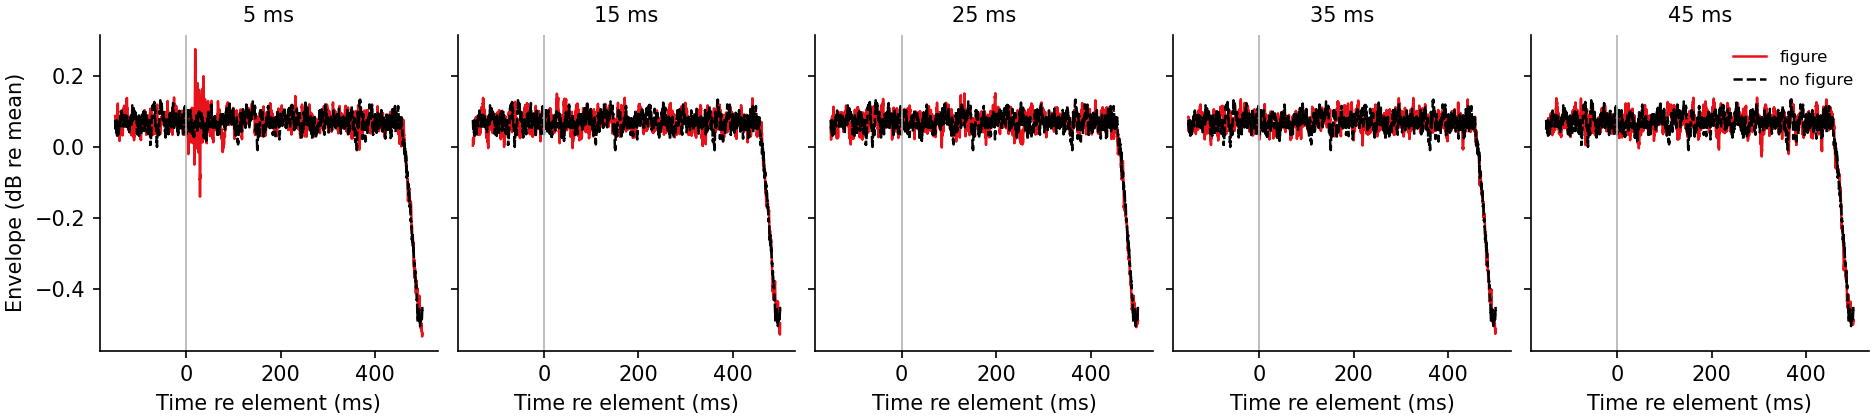
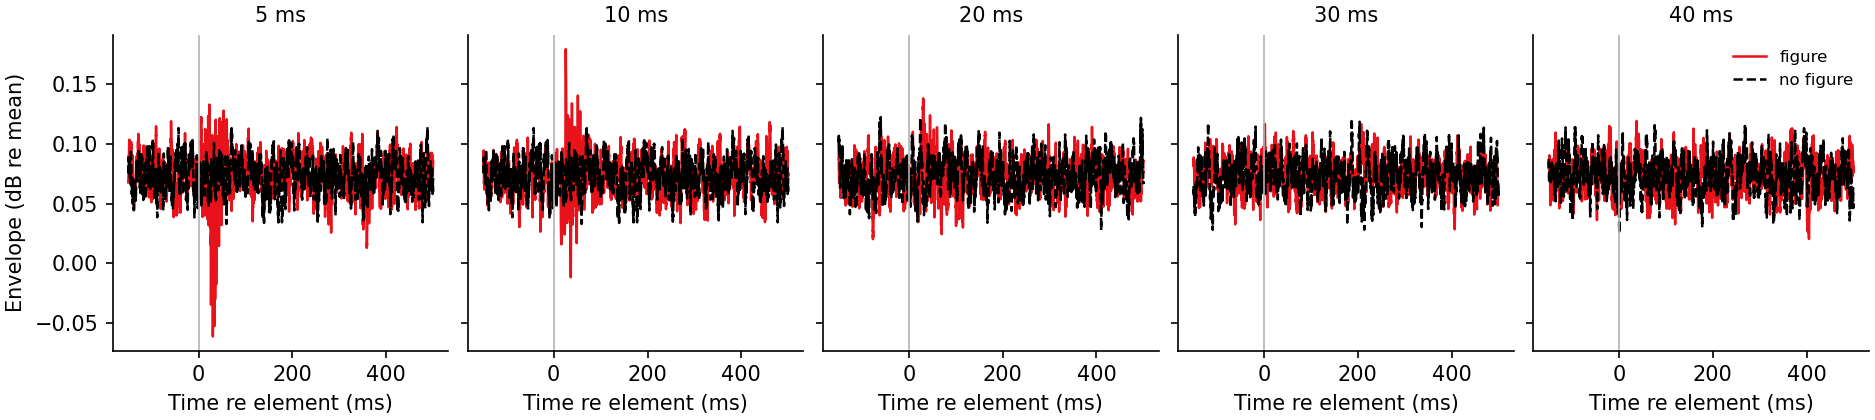
audios/sfg_task: bring the notebook and the README up to the current design
Both still described the version with 50 ms tones, a 117-channel pool at
1/24 octave, five tones sounding, a 0 ms chord, eleven elements at 5 Hz
that were allowed to overlap, and 140 trials over seven delays.  None of
that is true any more, and the notebook's 0 ms cells no longer build.

Notebook: the anchor follows min(steps_ms) rather than a hardcoded 0, the
sliders follow the design, the controls demo moves to a delay that is in
the sweep, and section 3 says what actually varies with the delay -- the
element grows from 70 to 280 ms and the tones stop overlapping -- instead
of the old paragraph about repetitions running into each other.  Executes
with 0 errors.

README: the numbers throughout, plus three things that were measured
since and are worth writing down.  Why 5 ms is the floor of the paradigm
(a 2.5 ms grid forces 16 tones sounding and the critical-band dealer is
then forced off its first choice 1301 times in 60 trials).  Why the
jitter is +-20 ms and not wider (it decorrelates the control's onsets
from the figure's, and the duty match at the 10 ms step goes 0.6, 2.9,
7.1, 11.1 points apart at +-10, 20, 30, 40).  And the element-duration
confound, with the control that settles it: hold the extent fixed and
trade `coherence` against the delay.

diff --git a/audios/sfg_task/config.py b/audios/sfg_task/config.py
@@ -101,22 +101,16 @@ class Design:
     # Long, because the figure has to be found by accumulating evidence over
     # elements rather than caught in one.
     #
-    # Elements repeat at `rate_hz` and ARE ALLOWED TO OVERLAP.  At 5 Hz the
-    # period is 200 ms and a 50 ms-per-step element is 350 ms long, so at
-    # the wide delays nearly two elements sound at once and the figure is a
-    # continuous ascending stream rather than a discrete object.  The number
-    # of coherent components sounding therefore varies with delay, which the
-    # non-overlapping version was built to avoid.  It is matched between the
-    # two intervals of a trial, so it cannot be a cue, but it does mean the
-    # conditions differ in more than asynchrony.  Chosen deliberately, to
-    # keep the figure at a speech rate.
+    # Elements repeat at `rate_hz` and do not run into one another: the mean
+    # gap is 326 ms and the widest element 280 ms, so they graze on 0.2 % of
+    # gaps and by at most 5 ms.  An earlier version let them overlap, and
+    # because the delays divided into the period that put tones from
+    # successive repetitions on top of each other -- accidental synchrony in
+    # exactly the conditions meant to have none, and the sweep stopped being
+    # monotonic.
     interval_s: float = 6.0
-    rate_hz: float = 3.0         # elements NEVER overlap: at 5 Hz a 300 ms
-                                 # element ran into the next one and tones
-                                 # from successive repetitions landed on top
-                                 # of each other, which put accidental
-                                 # synchrony back into exactly the delays
-                                 # meant to have none
+    rate_hz: float = 3.0         # the fastest rate a 280 ms element can keep
+                                 # without running into the next one
     jitter_ms: float = 20.0      # +- on each interval between elements, so
                                  # the rhythm is not isochronous and the
                                  # figure cannot be followed by predicting

diff --git a/audios/sfg_task/README.md b/audios/sfg_task/README.md
@@ -5,9 +5,10 @@
 sweep. No install, no account.
 
 A two-interval figure-ground detection experiment whose only variable is the onset
-asynchrony between successive tones of the figure. At 0 ms the seven tones are a
-coherent chord, the classic stochastic figure-ground stimulus. At 50 ms they are a
-350 ms staircase. Everything else is held identical, and measured to be identical.
+asynchrony between successive tones of the figure. At 5 ms the seven tones start
+inside 30 ms of each other and are effectively the coherent chord of the classic
+stochastic figure-ground stimulus. At 40 ms they are a 280 ms staircase with no overlap
+left at all. Everything else is held identical, and measured to be identical.
 
 The question: temporal coherence theory says common onset is what binds components into
 one object. How far can the onsets be pulled apart before the figure stops being one
@@ -15,14 +16,18 @@ thing?
 
 ## The stimulus
 
-A cloud of 50 ms tones with 10 ms raised-cosine ramps, drawn from 117 channels spanning
-250 to 7246 Hz on a 1/24 octave grid, all at the same level. Exactly five tones sound at
-every instant, by a start pattern that puts `bg_sounding` starts in every tone length. That works for any count, not only for multiples of it.
+A cloud of 40 ms tones with 10 ms raised-cosine ramps, drawn from 234 channels spanning
+250 to 7246 Hz on a 1/48 octave grid, all at the same level. Exactly eight tones sound at
+every instant, by a start pattern that puts `bg_sounding` starts in every tone length.
+That works for any count, not only for multiples of it.
 
-No two tones ever sound at once inside one critical band. A 1/24 octave pool puts four
-to eight channels inside every ERB, and without this rule two thirds of the tones
-acquire a beating partner, which at the bottom of the pool is a 5 Hz throb. A listener
-hears that as a repeated beep rather than as a cloud.
+The grid is finer than the published 1/24 octave because what the figure has to stand
+out from is the background's rate *per channel*, and a finer grid thins that without
+touching the figure: contrast 2.7x at 1/24 octave, 4.7x at 1/48.
+
+No two tones ever sound at once inside one critical band. Without this rule two thirds
+of the tones acquire a beating partner, which at the bottom of the pool is a slow throb.
+A listener hears that as a repeated beep rather than as a cloud.
 
 ### Why the levels are flat and not equal-loudness weighted
 
@@ -46,18 +51,35 @@ Flat, as in Teki 2013: long-term power now varies 1.4 dB across channels, the wo
 prominence is 1.0 dB, and the tones of an element are identical in level. The residual
 1.0 dB sits at the bottom edge of the pool, which has nothing below it to mask it.
 
-Onsets fall on a 5 ms grid. A finer grid costs nothing, since the cloud starts
-`bg_sounding / tone_ms` tones a second whatever the grid is, so the grid is set by the
-finest step to be tested and then held fixed for the whole experiment. If it moved with
-the step, so would the background, and every condition would face a different cloud.
+Onsets fall on a 5 ms grid, held fixed for the whole experiment. If it moved with the
+step, so would the background, and every condition would face a different cloud.
+
+**5 ms is the floor of the paradigm, and it is worth knowing why.** The figure
+substitutes background tones rather than adding to them, so a figure tone can only take
+a slot a background tone would have started in, which forces `bg_sounding = tone_ms /
+hop_ms`. Halving the grid to 2.5 ms therefore doubles the tones sounding at once to 16,
+and at 16 the critical-band rule runs out of pool: measured, the dealer is forced off
+its first choice 1301 times in 60 trials, against 0 at the present setting. So the
+finest asynchrony this design can present is one slot, and the psychometric function
+cannot be sampled below 5 ms.
 
 The figure is a discrete element: seven channels drawn at random inside a band 30
-semitones wide, each delayed `step_ms` behind the one below it. Eleven elements per 6 s
-interval, at irregular spacing. The interval is long because the figure has to be found
-by accumulating evidence across elements rather than caught in one. The minimum gap is
-set by the longest element in the experiment (350 ms), not by the current condition, so
-element timing comes from one distribution in every condition. Elements never overlap,
-so the number of coherent components sounding at once is the same at every step.
+semitones wide, each delayed `step_ms` behind the one below it. Seventeen elements per
+6 s interval at 3.07 Hz, spaced 326 ms apart on average with +-20 ms of jitter, so the
+rhythm is not isochronous and the figure cannot be followed by predicting when it is
+due. The interval is long because the figure has to be found by accumulating evidence
+across elements rather than caught in one.
+
+Element timing comes from one distribution in every condition: the gap is set by the
+longest element in the experiment (280 ms), not by the current one. Two floors, and they
+are different things. `rest_gap` is one tone plus its rest and may never be crossed,
+because every element uses the same seven channels and a shorter gap is one channel
+sounding twice at once. `min_gap` is only where the widest element stops touching the
+next, and a negative jitter is allowed to eat into it, because rejecting those draws let
+the floor and not the jitter decide the bottom of the distribution. Gaps come out
+290-360 ms, sd 11.34 against the 11.55 of the ideal uniform. Measured, elements graze at
+all on 0.2% of gaps and by at most 5 ms, and no two figure tones ever start in the same
+slot above the 5 ms anchor.
 
 ### Flat loudness, not a flat tone count
 
@@ -79,9 +101,12 @@ pool for as long as an element lasts, and leaves 0.9 dB behind.
 Both intervals of a trial are built from the same element onsets and the same delays,
 drawn once for the trial. They differ in one respect:
 
-* figure present: the same seven channels on every element
-* figure absent: seven channels drawn afresh for each element, at the same spacing and
-  the same spectral width, never sharing more than one channel with any other element
+* figure present: the same seven channels on every element, arriving together
+* figure absent (the default, `--absent scattered`): **the same seven channels**, coming
+  back at the same rate and with the same regularity, each on its own schedule and never
+  grouped into an element
+* `--absent cloud` is the classic alternative: seven channels drawn afresh for each
+  element. It is confounded, and the reason is in *What is not controlled* below
 
 So the listener hears the same rhythm, the same number of tones, the same element shape
 and the same loudness in both intervals, and has to judge which one kept coming back at
@@ -98,9 +123,9 @@ these. Construction arguments are not evidence.
 
 | control | how |
 |---|---|
-| tone count | identical by construction; measured, 784 in both |
+| tone count | identical by construction; measured, 1192 in both |
 | figure tones at once | identical in both intervals at every delay |
-| figure duty cycle | identical in both intervals at every delay |
+| figure duty cycle | how much of the interval the seven channels sound at all. It is set by the delay (20% at 5 ms, 80% at 40 ms), so the control is spread by the figure's own step to follow it: 46/47, 63/64, 80/80. The residue is 12 points at the 5 ms anchor, where the figure is a chord and the control must not be, and it does not grow with the delay |
 | tones sounding | identical range at every step |
 | long-term level | RMS-normalised, 0.000 dB apart |
 | long-term spectrum | within 0.4 dB in any third-octave band |
@@ -109,8 +134,8 @@ these. Construction arguments are not evidence.
 | element loudness pulse | element-locked power against the window before it: -0.06 to -0.02 dB at every step, the same in both |
 | element loudness cue | present minus absent, against the same measure split within one condition. The difference (0.10 to 0.13 dB) sits below the noise floor of the measurement (0.14 to 0.17 dB) |
 | element power | equalised per draw, against the power the background actually realised. CV 0.0000 in both |
-| beating | no two tones inside one critical band at once: 0 pairs, at every step. Six tones sounding, each holding a band clear either side, is 47% of the pool's 25 ERB, and over 1500 trials the rule never once had to bend. At 50 ms tones it was 79% and bent on one slot in a thousand at the shortest delay; the background takes the channel furthest from what is sounding rather than ending the session, and the battery counts how often |
-| envelope at the figure rate | 0.02 dB in both intervals, at every delay: the levelling removes the 5 Hz pulse entirely |
+| beating | no two tones inside one critical band at once: 0 pairs, at every step. Eight tones sounding, each holding a band clear either side, is about half of the pool's 25 ERB, and over 1120 trials across both absent modes and all four variants the rule never once had to bend. If it ever runs out the background takes the channel furthest from what is sounding rather than ending the session, and the battery counts how often |
+| envelope at the figure rate | 0.07 to 0.16 dB between the intervals, at every delay: the levelling removes the element pulse entirely |
 | accidental coherence | no two elements of a figure-absent interval share more than one channel |
 | figure position | uniform over the allowed range, redrawn every trial, so it is never in a learnable place |
 | overall level | roved 3 dB either way per interval |
@@ -124,9 +149,9 @@ no criterion; proportion correct maps straight to d'. Yes/no is available
 (`--task yesno`), which doubles the trials per step so false alarms can be estimated per
 step.
 
-Practice runs at 0 ms with feedback until 8 of the last 10 are right, and says so if it
-ends below criterion rather than sliding into the main block. Then 20 trials at each of
-7 steps, 140 trials, about 35 minutes with three self-paced breaks.
+Practice runs at the smallest delay with feedback until 8 of the last 10 are right, and
+says so if it ends below criterion rather than sliding into the main block. Then 24
+trials at each of 5 steps, 120 trials, about 30 minutes with two self-paced breaks.
 
 The trial line does not show the step. A subject who can see the condition will use it.
 `--show-step` puts it back for when you are testing the runner yourself, and the data
@@ -175,7 +200,7 @@ default, or takes `--session N`.
 
 ## The control session
 
-`run <subject> --controls`, 20 trials per cell at 20 and 40 ms:
+`run <subject> --controls`, 20 trials per cell at 10 and 30 ms:
 
 * rise: the sweep itself, measured by the same ears in the same session
 * perm: the same set of delays, frozen, but not a monotonic sweep. Separates asynchrony
@@ -203,7 +228,7 @@ condition.
 ### The number the experiment is for
 
 Accuracy is turned into d' (for 2IFC, `d' = sqrt(2) z(pc)`, which needs no criterion),
-a descending logistic is fitted to the seven points by maximum likelihood, and the
+a descending logistic is fitted to the five points by maximum likelihood, and the
 threshold reported is **the delay at which d' falls to 1**. That level is chosen because
 the task can resolve it; a half-way point often sits off the end of the range that was
 tested. Its 95% CI comes from a parametric bootstrap over the per-cell binomials.
@@ -214,14 +239,14 @@ tested. Its 95% CI comes from a parametric bootstrap over the per-cell binomials
   normal approximation does not.
 * d' carries a standard error by the delta method, from the binomial on pc.
 * Stars above each point are a one-sided binomial test **against chance**, corrected
-  across the seven delays with Benjamini-Hochberg.
-* `vs best` in the table is a Fisher exact test of each delay **against the 0 ms
-  chord**, also FDR corrected. This is the column that says where performance first
+  across the five delays with Benjamini-Hochberg.
+* `vs best` in the table is a Fisher exact test of each delay **against the smallest
+  delay**, also FDR corrected. This is the column that says where performance first
   falls away.
 * `step effect` is a single-trial logistic of correct on delay, with guessing built into
   the link, tested by likelihood ratio against the same model with the slope removed.
   That is the one test of whether delay matters at all, and it uses every trial rather
-  than seven summary points.
+  than five summary points.
 
 ### The figures
 
@@ -241,7 +266,7 @@ trial index instead, and the error band uses the effective N from the sum of the
 
 This is where a session goes wrong visibly: a subject who is still learning shows every
 curve climbing early, one who is tiring shows the black curve sagging late, and one who
-has stopped trying shows the 0 ms anchor coming down to meet the rest.
+has stopped trying shows the 5 ms anchor coming down to meet the rest.
 
 **`_checks.png`** The checks as a forest plot, and response time against delay.
 
@@ -264,7 +289,7 @@ two halves agree.
 | figure in 1 vs in 2 | the two intervals are not equally good, which should not happen if the stimulus is matched |
 | first vs second half | practice or fatigue. Also tested on single trials as `drift over the session` |
 | after a correct vs after an error | sequential effects, usually post-error slowing |
-| anchor, first vs second half | whether the subject is still trying. The 0 ms condition should stay easy all the way through |
+| anchor, first vs second half | whether the subject is still trying. The smallest delay should stay easy all the way through |
 
 Response time should rise with delay. If it is flat, the subject may be answering on a
 fixed schedule rather than on the evidence.
@@ -277,18 +302,32 @@ pooling raw trials, because subjects differ and the claim is about listeners. On
 simulated data with true thresholds of 17 to 33 ms, five subjects recovered 13 to 37 ms
 and a group mean within 1 ms of the truth.
 
-At 20 trials per step, one subject's threshold carries a CI about 14 ms wide. Two
+At 24 trials per step, one subject's threshold carries a CI about 13 ms wide. Two
 sessions halve that. Decide which you need before running twenty people once.
 
 ## What is not controlled, and cannot be
 
 * **The figure changes character across the sweep, not just its asynchrony.** A 5 ms
-  element is 60 ms long and puts six tones on at once; a 45 ms element is 300 ms long
-  and never has more than one. Measured, a figure tone is sounding 16% of the time at
-  5 ms and 57% at 45 ms. Same tone count, same rate, same contrast, different object.
-  This is inherent to spreading tones in time. `perm` holds the extent and removes the
-  order; `scatter` is the limit where the asynchrony is unbounded. Those two bound the
-  alternative explanations, and this is the first limitation a referee will find.
+  element is 70 ms long and puts seven tones on at once; a 40 ms element is 280 ms long
+  and never has more than one. Same tone count, same rate, same contrast, same duty,
+  different object. This is inherent to spreading tones in time, and it is the first
+  limitation a referee will find: *stopped binding* and *became a longer, slower object*
+  are the same manipulation.
+
+  The control that settles it is not in the sweep and should be run: hold the element
+  extent fixed and trade tones against delay. Seven tones 25 ms apart, four 50 ms apart
+  and three 75 ms apart are all about 190 ms long with very different asynchrony, and
+  `coherence` is already a field in `Design`. If performance tracks the asynchrony and
+  not the extent, the objection is dead. It is also the classic Teki coherence
+  manipulation, so it connects to the published work for free.
+
+* **The sweep has to be placed where the function falls, and one pilot says that is
+  narrow.** With 30 ms tones a subject scored 92% at 5 ms and chance at 15, 25, 35 and
+  45: the whole psychometric function lived between two adjacent points, because seven
+  tones stop overlapping at all past `6 * step = tone_ms`. 40 ms tones spread that
+  ladder over 87.5, 75, 50, 25 and 0% overlap, which is what the present sweep samples.
+  Pilot four points before committing 30 minutes an ear, and if the fall is still inside
+  10 ms, report a bound rather than a threshold: the grid cannot resolve below 5 ms.
 
 * **The other interval is not a plain cloud, and it cannot be.** Take the long-term
   spectrum of each interval, measure how far its loudest channels stand above their
@@ -300,18 +339,26 @@ sessions halve that. Decide which you need before running twenty people once.
 
   So the other interval carries **the same seven channels**, coming back at the same
   rate and with the same regularity, each on its own schedule. Both intervals then have
-  the same channels, the same tone count, the same six tones sounding at every instant,
-  the same level, the same long-term spectrum and the same contrast, and differ in
-  whether the seven fire *together*. Measured, the observer who ignores time falls to
-  **d' 0.01 to 0.08, which is 50 to 52% correct**: chance.
+  the same channels, the same tone count, the same eight tones sounding at every instant,
+  the same level, the same long-term spectrum, the same contrast and the same duty, and
+  differ in whether the seven fire *together*. Measured, the observer who ignores time
+  falls to **d' 0.005 to 0.54, which is 50 to 60% correct**: chance.
 
-  Three things had to be right for that. The figure substitutes background tones rather
+  Four things had to be right for that. The figure substitutes background tones rather
   than adding to them, so the tone count does not move. The scattered channels are
   nudged off each other's slots, so the control never forms a momentary chord and never
-  needs a levelling gain the coherent side does not. And a coherent element that would
-  collide with its overlapping neighbour slides whole, pattern intact, rather than
-  doubling a slot. With all three the levelling gain is **0.00 dB in both intervals at
-  every delay**, and the leveller is inert.
+  needs a levelling gain the coherent side does not. A coherent element that would
+  collide with a neighbour slides whole, pattern intact, rather than doubling a slot.
+  And the control is spread by the figure's own step, so the two intervals match on how
+  busy the seven channels are. With all four the levelling gain is **0.00 dB in both
+  intervals at every delay**, and the leveller is inert.
+
+  That last one sets the jitter. Both intervals draw their onsets from the same
+  distribution, and how often the seven trains coincide falls as the jitter decorrelates
+  them, so a wider jitter pulls the control's duty off the figure's at the narrow
+  delays. At the 10 ms step the two are 0.6 points apart at +-10 ms of jitter, 2.9 at
+  +-20, 7.1 at +-30 and 11.1 at +-40. +-20 ms is the most jitter that keeps every sweep
+  point inside 3 points.
 
   Trial-by-trial feedback matters here: it does not bias 2IFC, but it teaches whatever
   cue works, so it is only safe once the only cue that works is the intended one.
